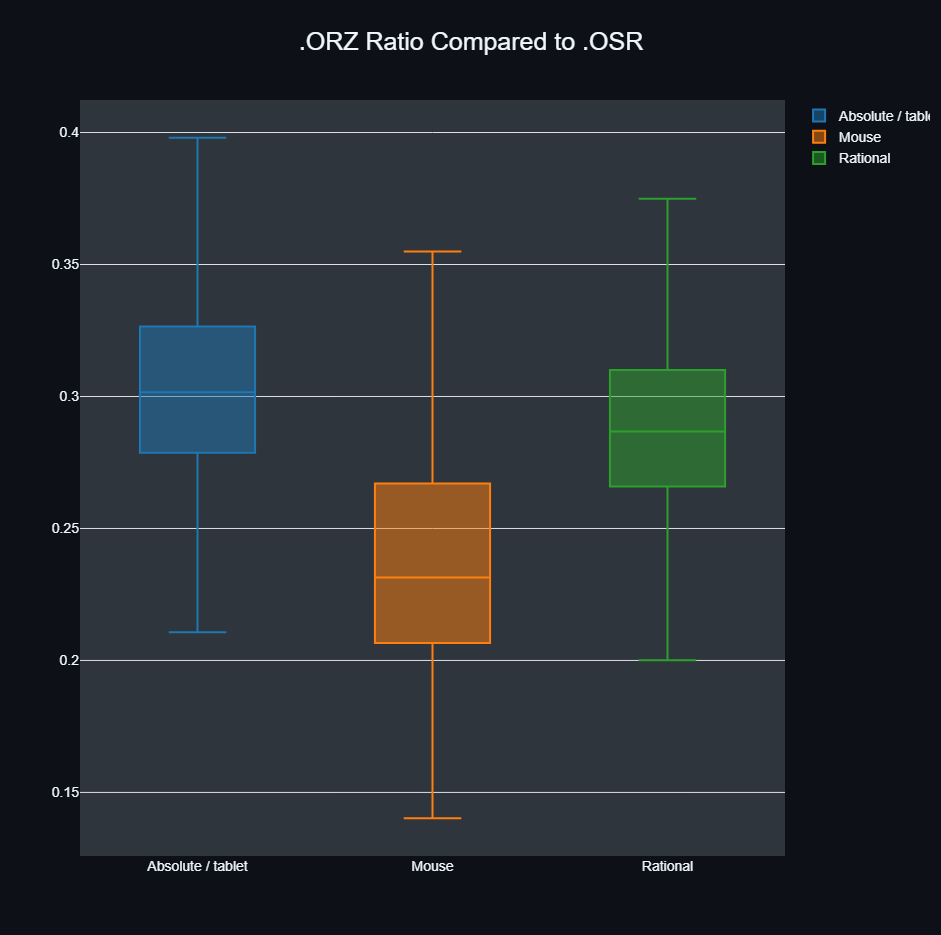
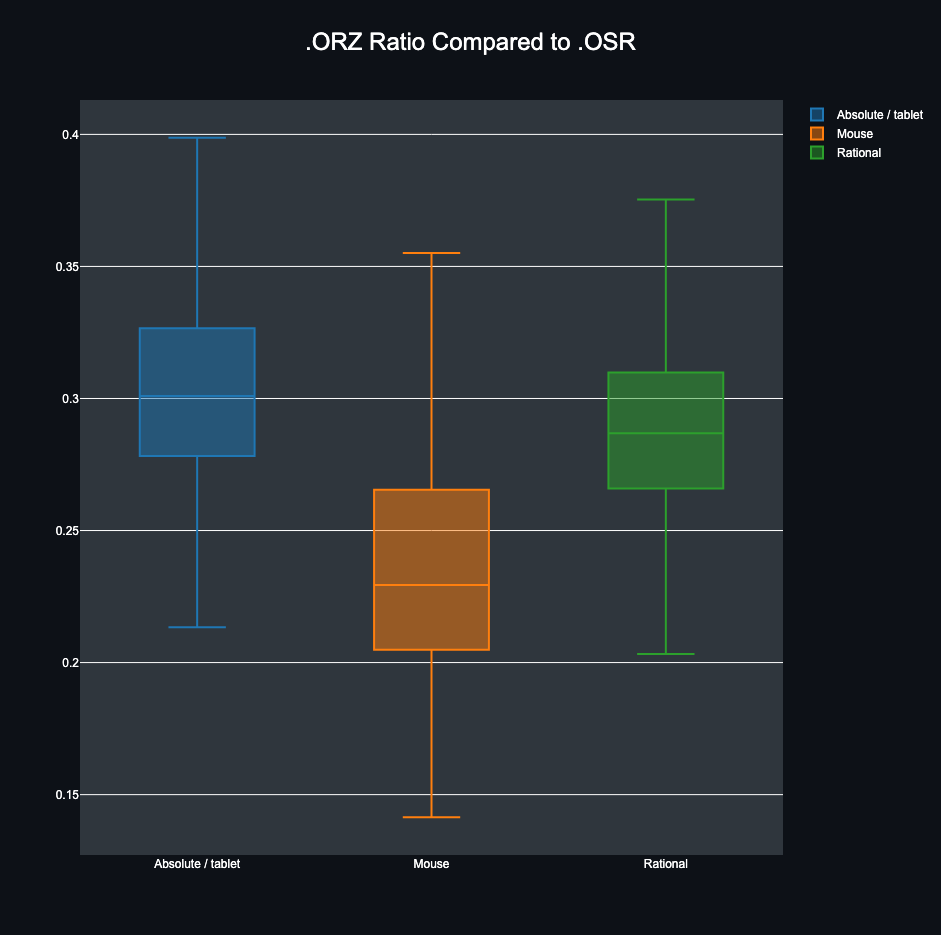
Update the README's compression figures and graph
Measured at a50c38f over the replay set, default options: each .orz was
decoded and its replay text compared with the input's.

diff --git a/README.md b/README.md
@@ -10,28 +10,28 @@ Replay set: https://drive.google.com/file/d/1i2oe929loEzhvCfRYG-DeZZQ_YouaBYD/vi
 Sizes are totals over the whole set: the .osr replay data (LZMA) in, the .orz out, in bytes.
 
 # osu!
-27.313% of the original size (4,163 replays)
+27.458% of the original size (4,163 replays)
 
-226,602,499 -> 61,893,067
+226,602,499 -> 62,221,270
 
 ![box_whisk](./graph.png)
 
 # taiko
-45.028% of the original size (457 replays)
+44.887% of the original size (457 replays)
 
-2,794,463 -> 1,258,302
+2,794,463 -> 1,254,359
 
 # mania
-46.276% of the original size (1,562 replays)
+46.106% of the original size (1,562 replays)
 
-14,573,760 -> 6,744,120
+14,573,760 -> 6,719,407
 
 # fruit
-44.773% of the original size (373 replays)
+44.817% of the original size (373 replays)
 
-10,419,674 -> 4,665,215
+10,419,674 -> 4,669,768
 
 # Total
-29.310% of the original size (6,555 replays)
+29.429% of the original size (6,555 replays)
 
-254,390,396 -> 74,560,704
+254,390,396 -> 74,864,804
